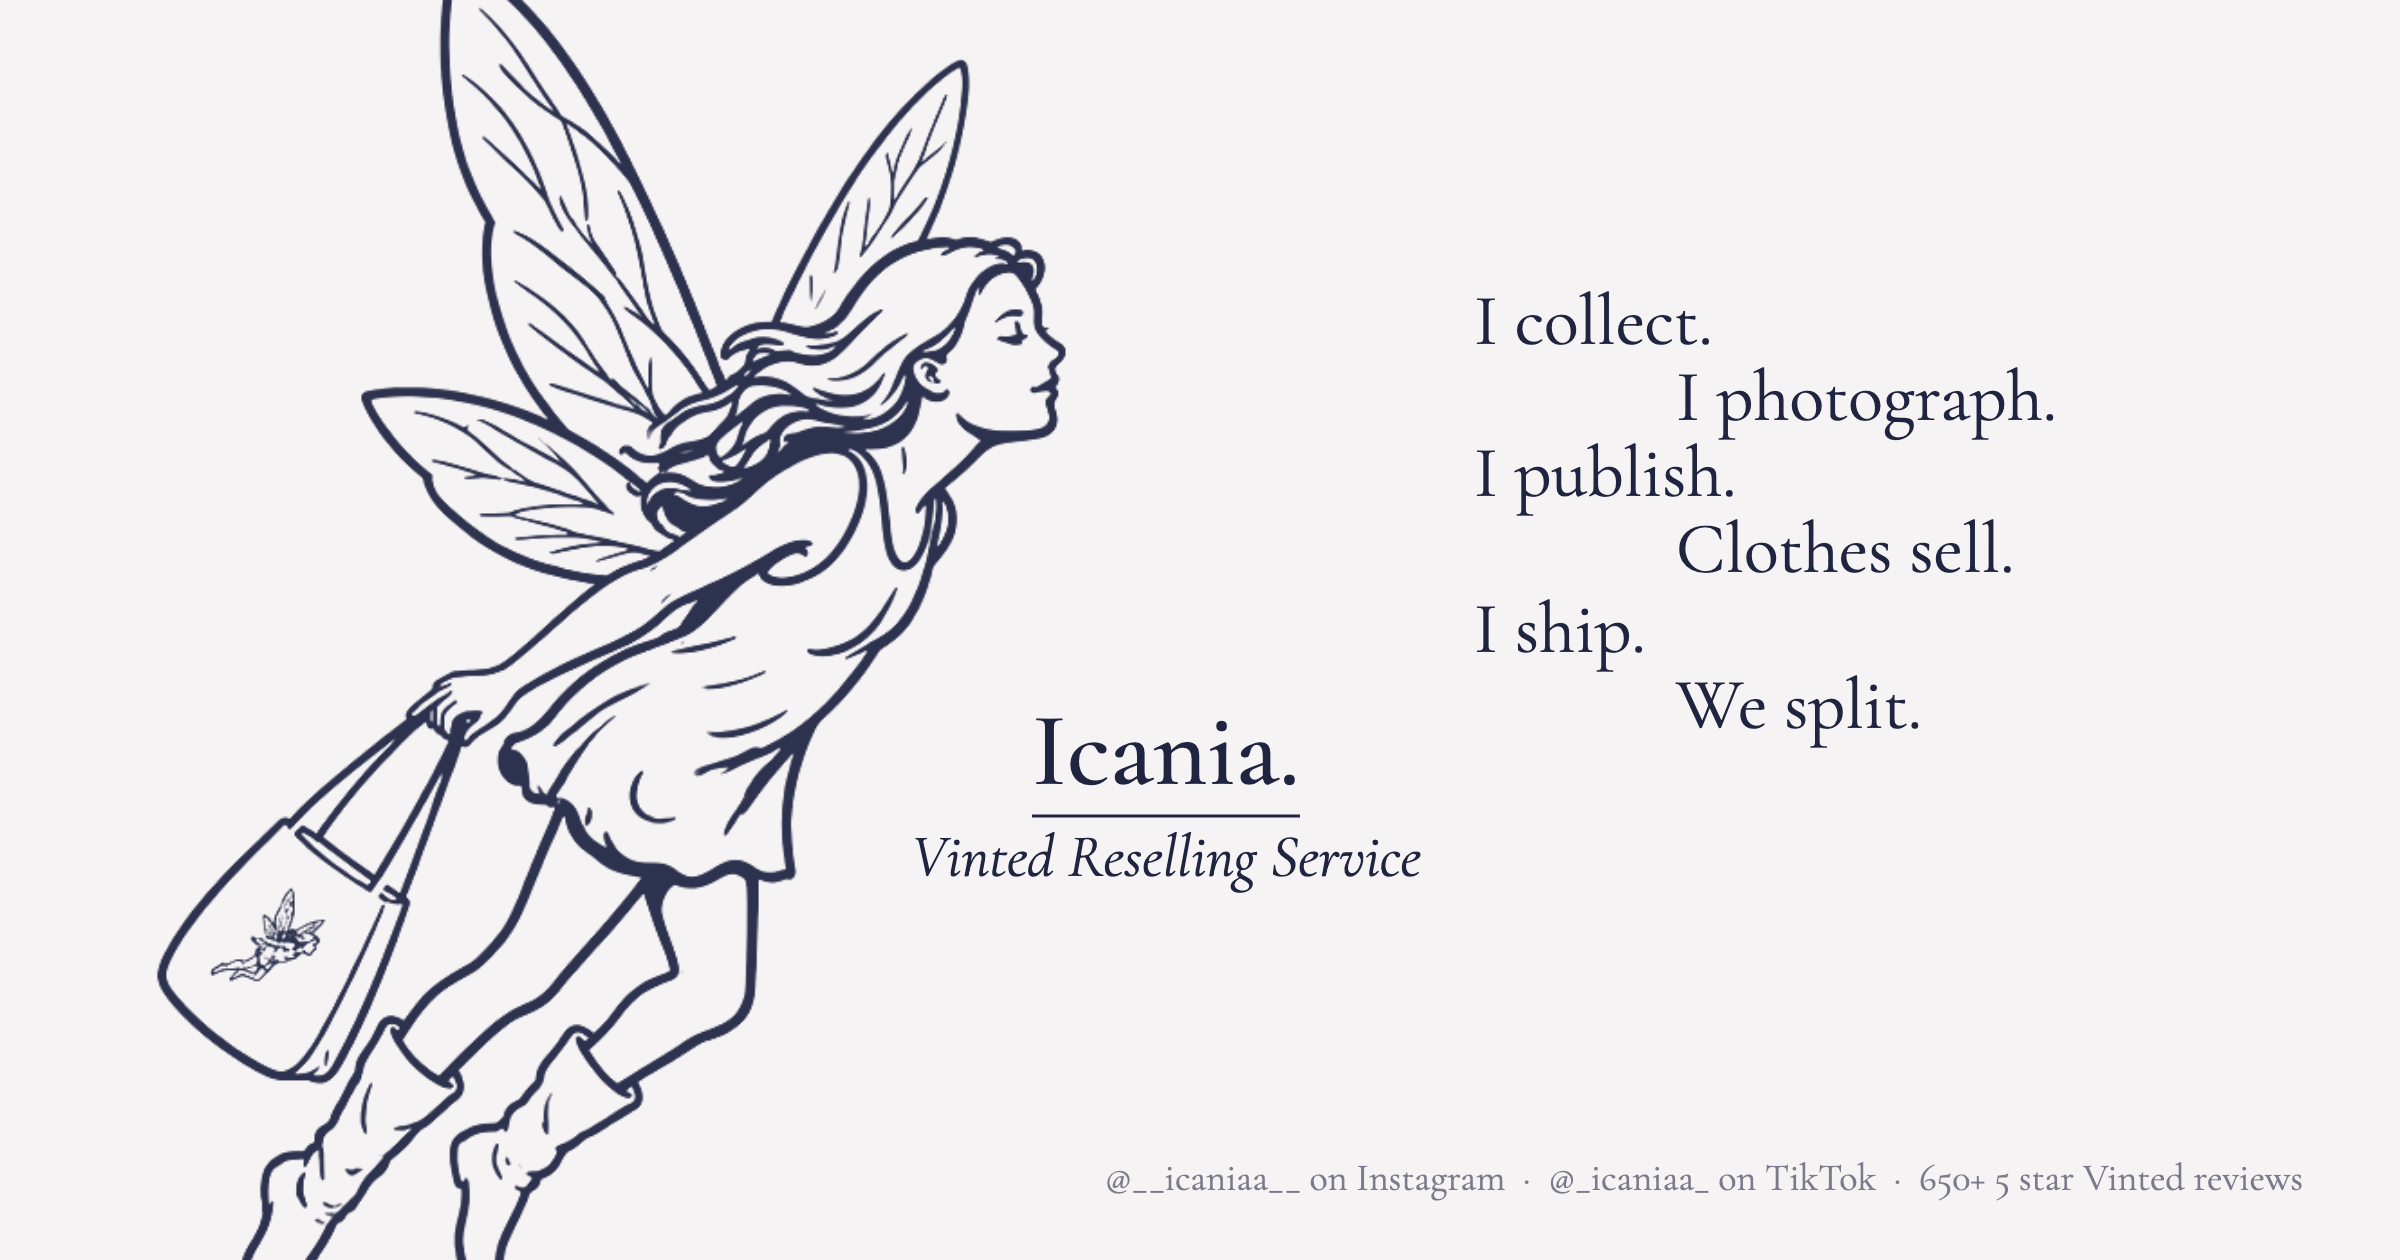
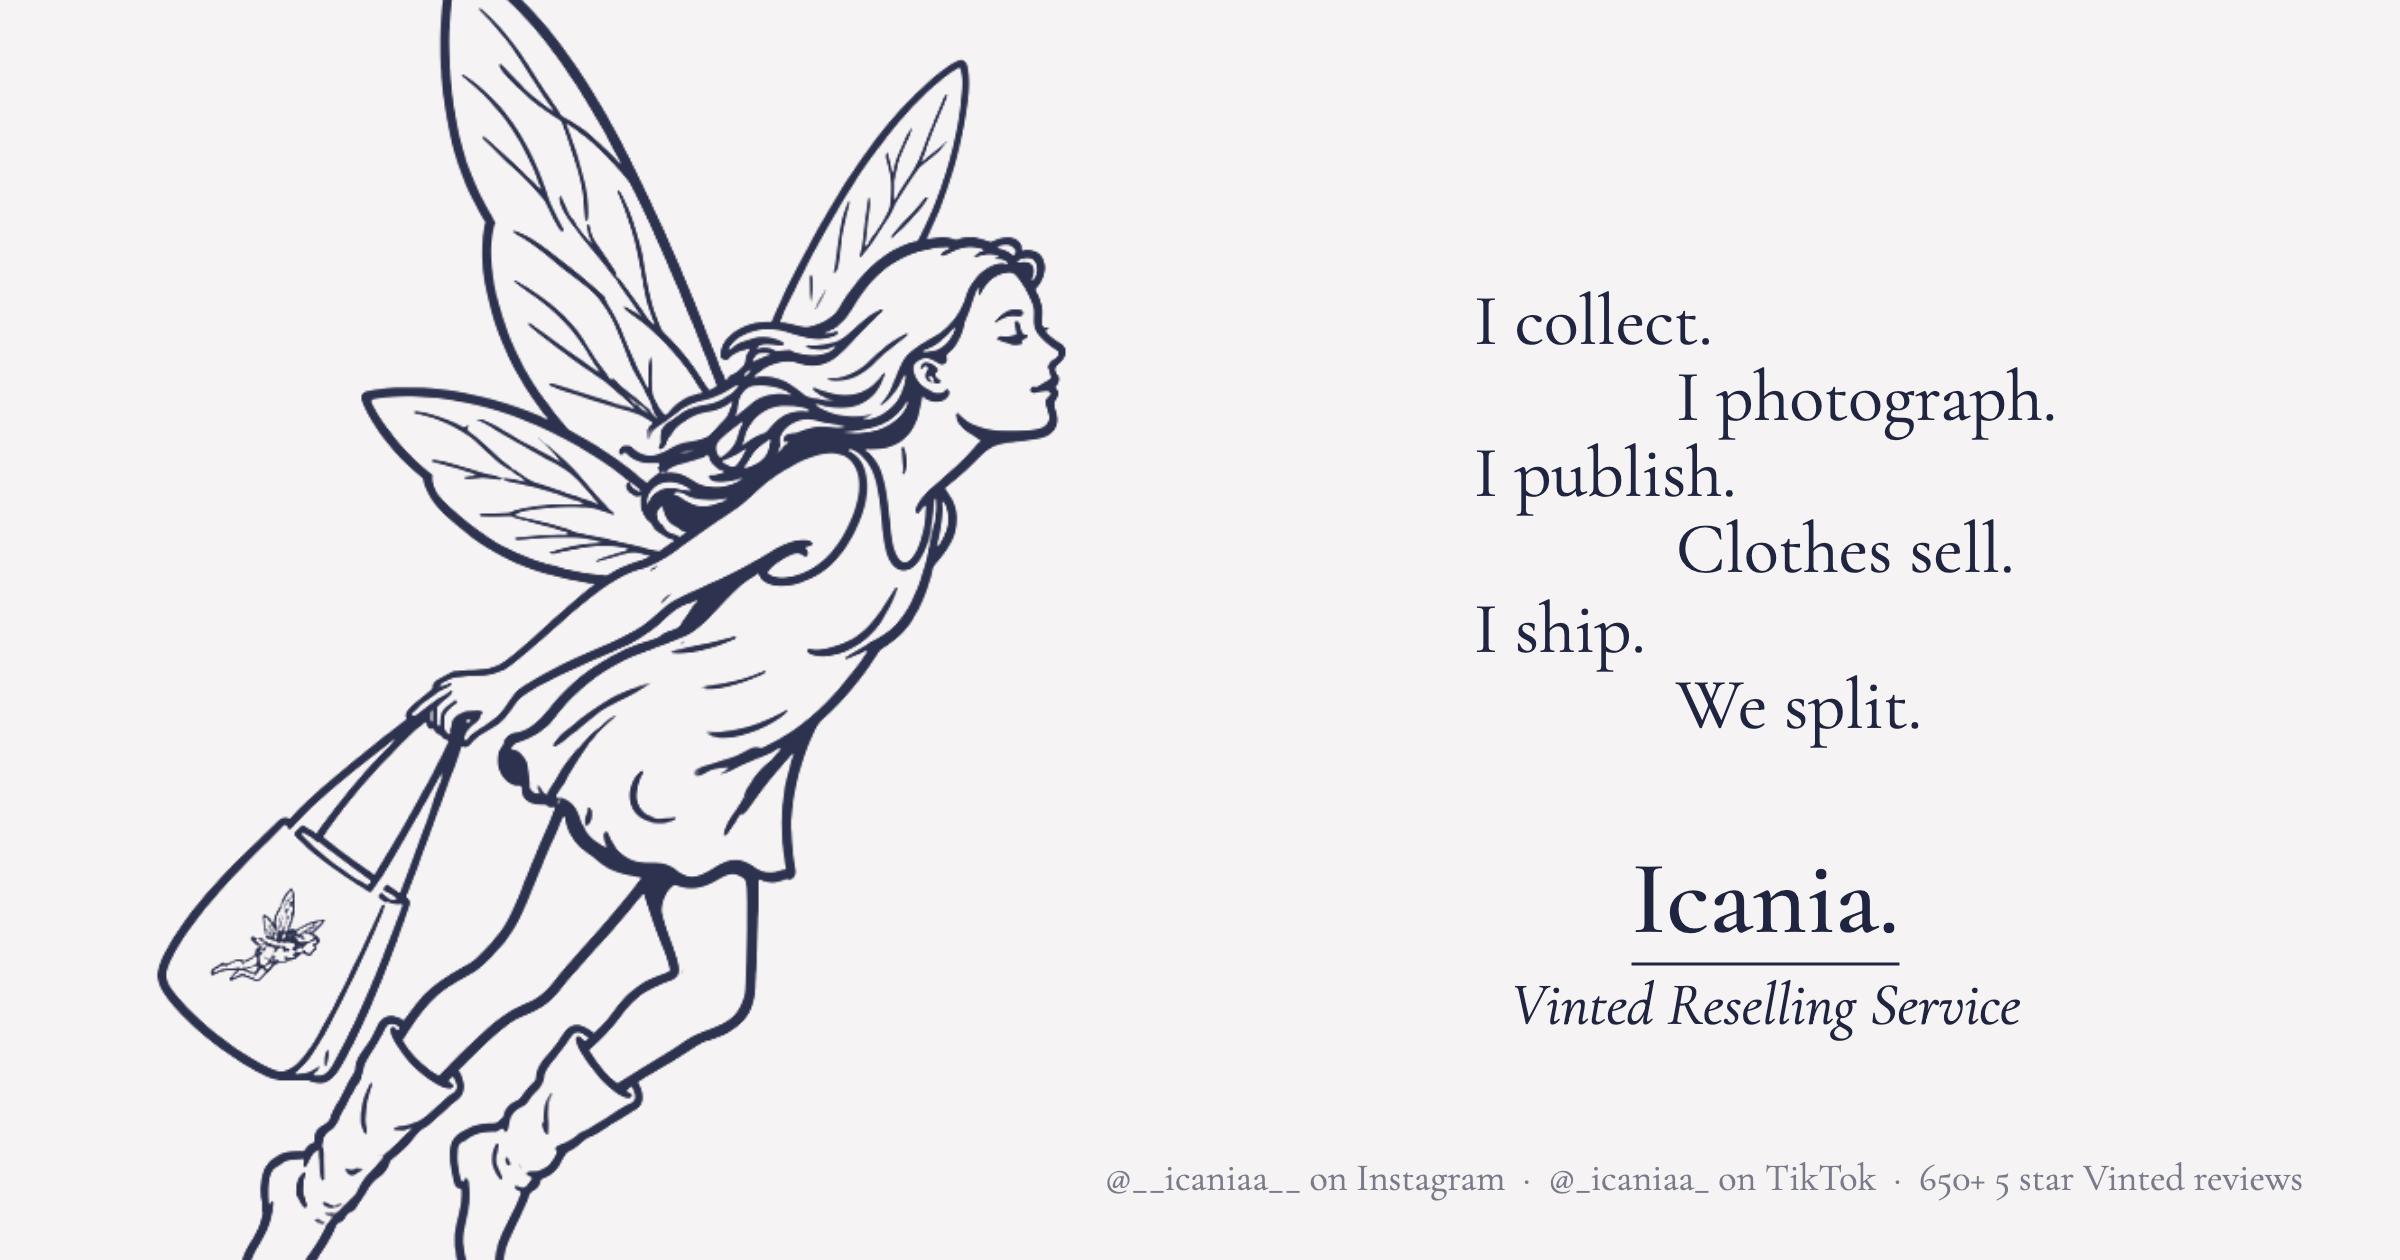
Centre share-card wordmark under the poem column
Compute the wordmark x from the poem's measured bounds and drop the
block below the poem so Icania + subline align under it.

Changed region(s): [[0.625, 0.681, 0.8438, 0.8357], [0.375, 0.5881, 0.5938, 0.7119]]

diff --git a/og-card.html b/og-card.html
@@ -37,12 +37,11 @@ fairy.src = '/fairy-mark.png';
 // Fairy: flying, left, top wing cropped by the top edge.
 const FAIRY = { h: 715, x: 66, y: -34 };
 
-// Wordmark block, centred on WM_X, sitting right of the fairy.
-const WM_X    = 583;
-const WM_BASE = 392;   // "Icania." baseline
+// Wordmark block: WM_X is computed at render time to sit centred under the poem column.
+const WM_BASE = 466;   // "Icania." baseline
 const WM_SIZE = 52;
-const WM_RULE = 408;   // underline y
-const SUB_BASE = 438;  // subline baseline
+const WM_RULE = 482;   // underline y
+const SUB_BASE = 512;  // subline baseline
 const SUB_SIZE = 30;
 
 // Process poem, upper right, alternating left / indented stagger.
@@ -76,7 +75,13 @@ function render(){
   x.textAlign = 'left';
   x.textBaseline = 'alphabetic';
   x.font = '400 ' + POEM_SIZE + 'px "Cormorant Garamond"';
-  for (const [line, lx, ly] of POEM) x.fillText(line, lx, ly);
+  let poemLeft = Infinity, poemRight = -Infinity;
+  for (const [line, lx, ly] of POEM) {
+    x.fillText(line, lx, ly);
+    poemLeft = Math.min(poemLeft, lx);
+    poemRight = Math.max(poemRight, lx + x.measureText(line).width);
+  }
+  const WM_X = (poemLeft + poemRight) / 2;
 
   // ---- wordmark + underline + subline ----
   x.textAlign = 'center';